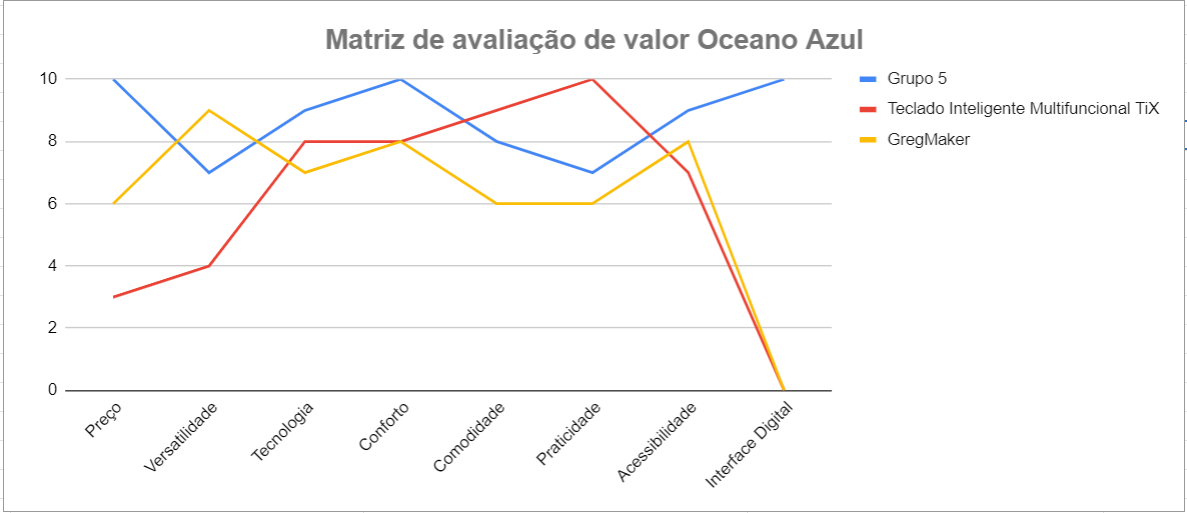
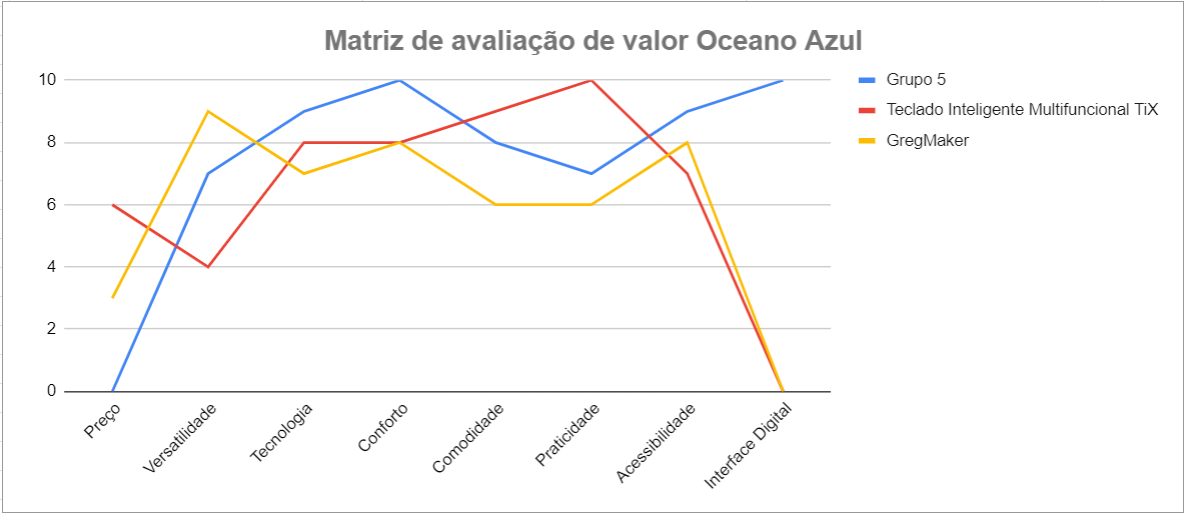
Atualizações e correções no Oceano Azul

diff --git a/artefatos/entendimento_negocio.md b/artefatos/entendimento_negocio.md
@@ -1,8 +1,8 @@
 # Entendimento de negócio
 
 ## Matriz de Avaliação de Valor Oceano Azul
-Esta ferramenta consiste em analisar o mercado em que uma empresa está inserida e quais são seus principais concorrentes usando quatro ações: reduzir, eliminar, aumentar e criar. Usando essas ações, é possível avaliar oportunidades de inovação e criar diferencial, o que leva an uma empresa a criar um novo mercado (chamado de oceano azul) e sair do mercado atual, onde há muitos concorrentes.
-Para comparar as soluções atuais e a proposta para o projeto, o grupo criou uma matriz de avaliação Blue Ocean após fazer pesquisas e aprender sobre o produto. Uma análise com as informações a seguir está disponível: oito atributos de comparação: preço, versatilidade, tecnologia, conforto, comodidade, praticidade, acessibilidade e interface digital; três produtos concorrentes: Grupo 5, Teclado Inteligente Multifuncional TiX e GregMaker; e uma classificação de 0 a 10. Após a apresentação e explicação de cada característica, você pode ver um gráfico para obter uma compreensão visual da comparação dos três produtos concorrentes e as conclusões que o grupo chegou com base na avaliação realizada.
+Esta ferramenta consiste em analisar o mercado em que uma empresa está inserida e quais são seus principais concorrentes usando quatro ações: reduzir, eliminar, aumentar e criar. Usando essas ações, é possível avaliar oportunidades de inovação e criar diferencial, o que leva a uma empresa a criar um novo mercado (chamado de oceano azul) e sair do mercado atual, onde há muitos concorrentes.
+Para comparar as soluções atuais e a proposta para o projeto, o grupo criou uma Matriz de Avaliação de Valor Oceano Azul após fazer pesquisas e aprender sobre o produto. Uma análise com as informações a seguir está disponível: oito atributos de comparação: preço, versatilidade, tecnologia, conforto, comodidade, praticidade, acessibilidade e interface digital; três produtos concorrentes: Grupo 5, Teclado Inteligente Multifuncional TiX e GregMaker; e uma classificação de 0 a 10. Após a apresentação e explicação de cada característica, você pode ver um gráfico para obter uma compreensão visual da comparação dos três produtos concorrentes e as conclusões que o grupo chegou com base na avaliação realizada.
 
 ### Matriz Oceano Azul
 <img src="./img/planilha_oceano.png">
@@ -11,7 +11,7 @@ A seguir, acompanhe a explicação sobre cada atributo; qual a ação que ele re
 
 ### Preço
 
-A avaliação do preço baseou-se nos valores encontrados nos sites de cada produto de tecnologia assistiva. As notas atribuídas a este atributo foram as seguintes: O Grupo 5 recebeu nota 10, pois oferece sua tecnologia assistiva gratuitamente à AACD. O Teclado Inteligente Multifuncional TiX recebeu nota 3 devido ao custo de R$4.680 para um tratamento de 24 meses. O GregMaker obteve nota 6, pois tem um custo de R$500 para o mesmo período.
+A avaliação do preço baseou-se nos valores encontrados nos sites de cada produto de tecnologia assistiva. As notas atribuídas a este atributo foram as seguintes: O Grupo 5 recebeu nota 0, pois isenta a AACD de pagar pela tecnologia assistiva. O Teclado Inteligente Multifuncional TiX recebeu nota 6 devido ao custo de R$4.680 para um tratamento de 24 meses. O GregMaker obteve nota 3, pois tem um custo de R$500 para o mesmo período.Levando em conta aqui que quanto maior a nota mais caro é o produto.
 
 
 ### Versatilidade
@@ -35,7 +35,7 @@ A avaliação da comodidade levou em consideração o affordance do produto, ou 
 
 ### Praticidade
 
-A avaliação da praticidade considerou a facilidade de instalação e uso do produto. As notas atribuídas para este atributo foram as seguintes: O Grupo 5 obteve nota 7, uma vez que requer programação prévia e espaço adicional. O Teclado Inteligente Multifuncional TiX recebeu nota 10, pois é fácil de ser usado e pode ser utilizado em diferentes sistemas e ambientes, sendo plug-and-play. O GregMaker obteve nota 6, uma vez que depende de uma configuração e preparação maiores em relação aos outros produtos para alcançar os mesmos níveis de estímulos.
+A avaliação da praticidade considerou a facilidade de instalação e uso do produto. As notas atribuídas para este atributo foram as seguintes: O Grupo 5 obteve nota 7, uma vez que requer programação prévia e espaço adicional para alocar o produto. O Teclado Inteligente Multifuncional TiX recebeu nota 10, pois é fácil de ser usado e pode ser utilizado em diferentes sistemas e ambientes, sendo plug-and-play. O GregMaker obteve nota 6, uma vez que depende de uma configuração e preparação maiores em relação aos outros produtos para alcançar os mesmos níveis de estímulos.
 
 
 ### Acessibilidade
@@ -52,25 +52,27 @@ Com base na avaliação e em sua descrição previamente realizada. A seguir, é
 
 <img src="./img/grafico_oceano.png">
 
-### Reduzir:
+### Aumentar:
 
-* Conforto: Uma vez que o Grupo 5 recebeu a maior pontuação (nota 10) nesse atributo, não é necessário fazer melhorias adicionais. Portanto, a ação aqui é reduzir o foco em aprimorar o conforto, uma vez que já é excelente em comparação com os concorrentes.
+* Conforto: Uma vez que o Grupo 5 recebeu a maior pontuação (nota 10) nesse atributo, ele se destacou acima dos outros dois produtos, por isso aumentou neste atributo.
+
+* Tecnologia: Uma vez que o Grupo 5 recebeu a maior pontuação (nota 9) nesse atributo, ele se destacou acima dos outros dois produtos, por isso aumentou neste atributo.
+
+* Acessibilidade: Uma vez que o Grupo 5 recebeu a maior pontuação (nota 9) nesse atributo, ele se destacou acima dos outros dois produtos, por isso aumentou neste atributo.
   
 ### Eliminar:
 
-* Tecnologia: Como o Grupo 5 se destacou com uma pontuação alta (nota 9) em termos de tecnologia, não é necessário eliminar nenhum aspecto tecnológico. Manter a inovação tecnológica é essencial para se destacar.
-
-### Aumentar:
-
-* Praticidade: O Teclado Inteligente Multifuncional TiX recebeu a pontuação mais alta (nota 10) em praticidade. Portanto, é interessante se concentrar em melhorar a praticidade do Grupo 5, tornando-o ainda mais fácil de instalar e usar, a fim de competir mais eficazmente nesse aspecto.
+* Preço: Levando em consideração que o Grupo 5 recebeu pontuação (nota 0) nula neste atributo, se entende que ele eliminou os custos de desenvolvimento da solução, se tornando gratuita.
 
 ### Criar:
 
-* Interface Digital: O Grupo 5 possui uma interface digital altamente avaliada (nota 10). No entanto, o TiX e o GregMaker não oferecem esse recurso. Isso pode ser uma oportunidade para criar um novo atributo que os concorrentes não têm. Deve-se considerar expandir e aprimorar ainda mais a interface digital, tornando-a uma característica única e valiosa do produto.
+* Interface Digital: O Grupo 5 possui uma interface digital altamente avaliada (nota 10). No entanto, o TiX e o GregMaker não oferecem esse recurso. Logo o Grupo 5 inovou dentro da categoria de produtos de Tecnologia Assistiva Táteis. Deve-se considerar expandir e aprimorar ainda mais a interface digital, tornando-a uma característica única e valiosa do produto.
 
-* Versatilidade: Embora o Grupo 5 tenha recebido uma boa pontuação (nota 7) em versatilidade, o GregMaker obteve uma pontuação mais alta (nota 9). Portanto,  pode-se considerar aprimorar a versatilidade do Grupo 5 para competir mais eficazmente nesse aspecto.
+### Reduzir:
 
-Em resumo, a escolha entre esses produtos depende das prioridades e necessidades específicas. O Grupo 5 se destaca em termos de tecnologia, interface digital e preço acessível. O Teclado Inteligente Multifuncional TiX oferece praticidade e comodidade, enquanto o GregMaker é altamente versátil e proporciona variedade de estímulos.
+* Nenhum atributo foi reduzido pelo produto Grupo 5.
+
+Em resumo, a escolha entre esses produtos depende das prioridades e necessidades específicas. O Grupo 5 se destaca em termos de acessibilidade, conforto, tecnologia, interface digital e preço acessível. O Teclado Inteligente Multifuncional TiX oferece praticidade e comodidade, enquanto o GregMaker é altamente versátil e proporciona variedade de estímulos.
 
 ## Análise Financeira do Projeto
 
